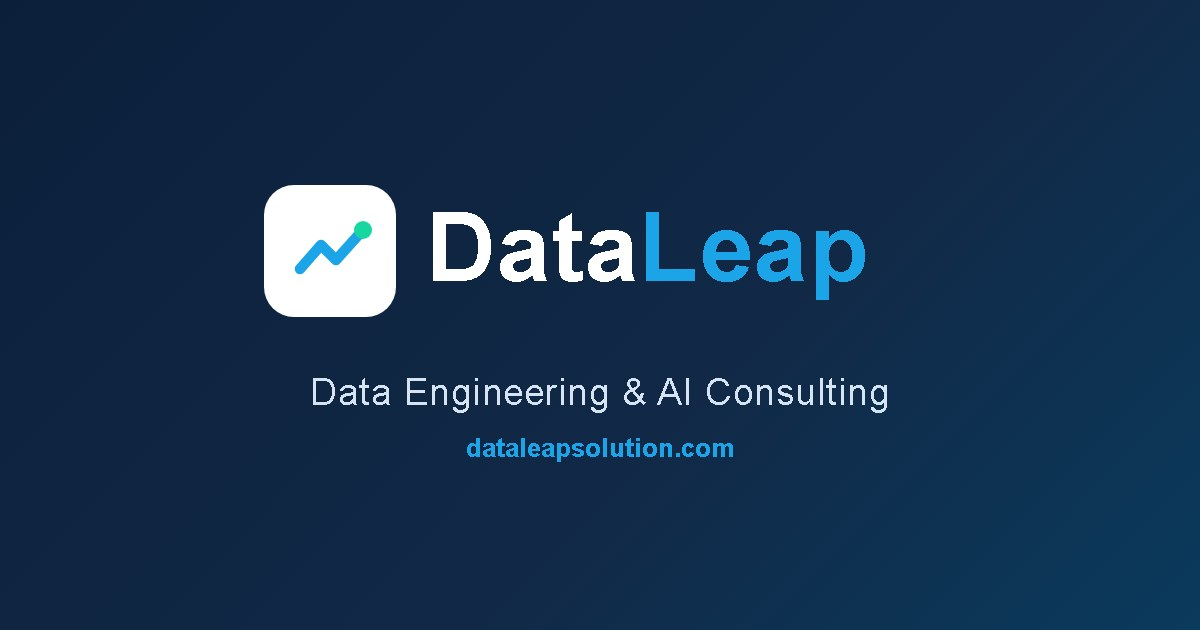
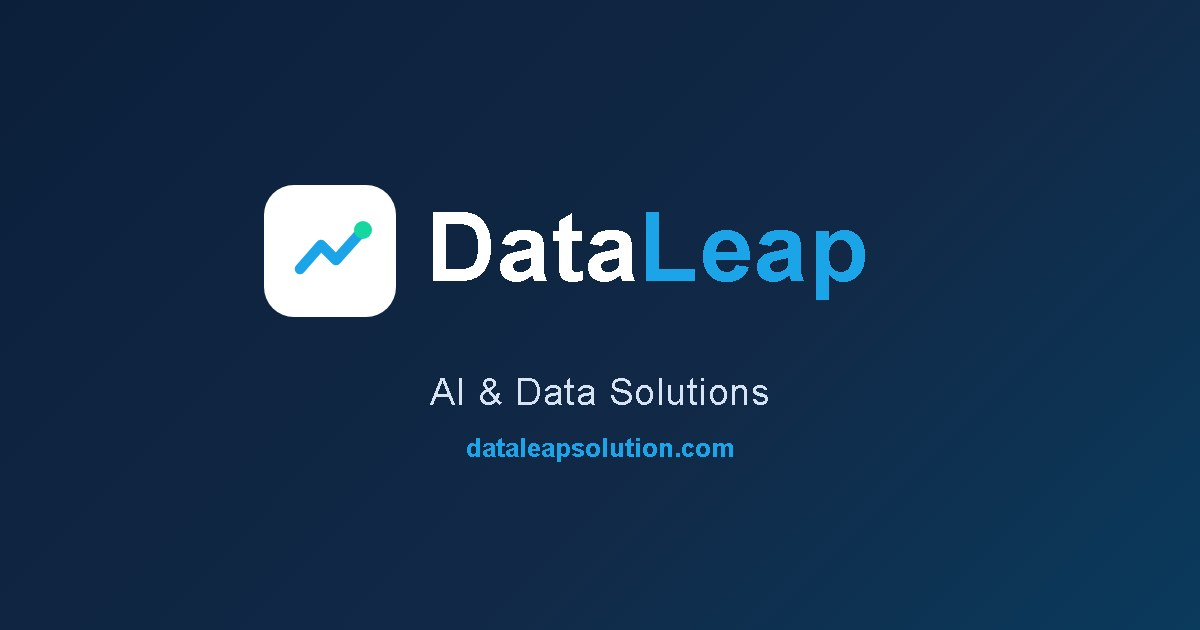
Match social card tagline to page titles (AI & Data Solutions)

Changed region(s): [[0.2467, 0.6032, 0.74, 0.6635]]

diff --git a/about.html b/about.html
@@ -15,7 +15,7 @@
   <meta property="og:image" content="https://dataleapsolution.com/assets/img/og-image.jpg">
   <meta property="og:image:width" content="1200">
   <meta property="og:image:height" content="630">
-  <meta property="og:image:alt" content="DataLeap: Data Engineering &amp; AI Consulting">
+  <meta property="og:image:alt" content="DataLeap: AI &amp; Data Solutions">
   <meta name="twitter:card" content="summary_large_image">
   <meta property="og:site_name" content="DataLeap">
 

diff --git a/careers.html b/careers.html
@@ -15,7 +15,7 @@
   <meta property="og:image" content="https://dataleapsolution.com/assets/img/og-image.jpg">
   <meta property="og:image:width" content="1200">
   <meta property="og:image:height" content="630">
-  <meta property="og:image:alt" content="DataLeap: Data Engineering &amp; AI Consulting">
+  <meta property="og:image:alt" content="DataLeap: AI &amp; Data Solutions">
   <meta name="twitter:card" content="summary_large_image">
   <meta property="og:site_name" content="DataLeap">
 

diff --git a/cookie-policy.html b/cookie-policy.html
@@ -15,7 +15,7 @@
   <meta property="og:image" content="https://dataleapsolution.com/assets/img/og-image.jpg">
   <meta property="og:image:width" content="1200">
   <meta property="og:image:height" content="630">
-  <meta property="og:image:alt" content="DataLeap: Data Engineering &amp; AI Consulting">
+  <meta property="og:image:alt" content="DataLeap: AI &amp; Data Solutions">
   <meta name="twitter:card" content="summary_large_image">
   <meta property="og:site_name" content="DataLeap">
 

diff --git a/index.html b/index.html
@@ -15,7 +15,7 @@
   <meta property="og:image" content="https://dataleapsolution.com/assets/img/og-image.jpg">
   <meta property="og:image:width" content="1200">
   <meta property="og:image:height" content="630">
-  <meta property="og:image:alt" content="DataLeap: Data Engineering &amp; AI Consulting">
+  <meta property="og:image:alt" content="DataLeap: AI &amp; Data Solutions">
   <meta name="twitter:card" content="summary_large_image">
   <meta property="og:site_name" content="DataLeap">
 

diff --git a/privacy-policy.html b/privacy-policy.html
@@ -15,7 +15,7 @@
   <meta property="og:image" content="https://dataleapsolution.com/assets/img/og-image.jpg">
   <meta property="og:image:width" content="1200">
   <meta property="og:image:height" content="630">
-  <meta property="og:image:alt" content="DataLeap: Data Engineering &amp; AI Consulting">
+  <meta property="og:image:alt" content="DataLeap: AI &amp; Data Solutions">
   <meta name="twitter:card" content="summary_large_image">
   <meta property="og:site_name" content="DataLeap">
 

diff --git a/service-details.html b/service-details.html
@@ -15,7 +15,7 @@
   <meta property="og:image" content="https://dataleapsolution.com/assets/img/og-image.jpg">
   <meta property="og:image:width" content="1200">
   <meta property="og:image:height" content="630">
-  <meta property="og:image:alt" content="DataLeap: Data Engineering &amp; AI Consulting">
+  <meta property="og:image:alt" content="DataLeap: AI &amp; Data Solutions">
   <meta name="twitter:card" content="summary_large_image">
   <meta property="og:site_name" content="DataLeap">
 

diff --git a/terms-of-service.html b/terms-of-service.html
@@ -15,7 +15,7 @@
   <meta property="og:image" content="https://dataleapsolution.com/assets/img/og-image.jpg">
   <meta property="og:image:width" content="1200">
   <meta property="og:image:height" content="630">
-  <meta property="og:image:alt" content="DataLeap: Data Engineering &amp; AI Consulting">
+  <meta property="og:image:alt" content="DataLeap: AI &amp; Data Solutions">
   <meta name="twitter:card" content="summary_large_image">
   <meta property="og:site_name" content="DataLeap">
 
